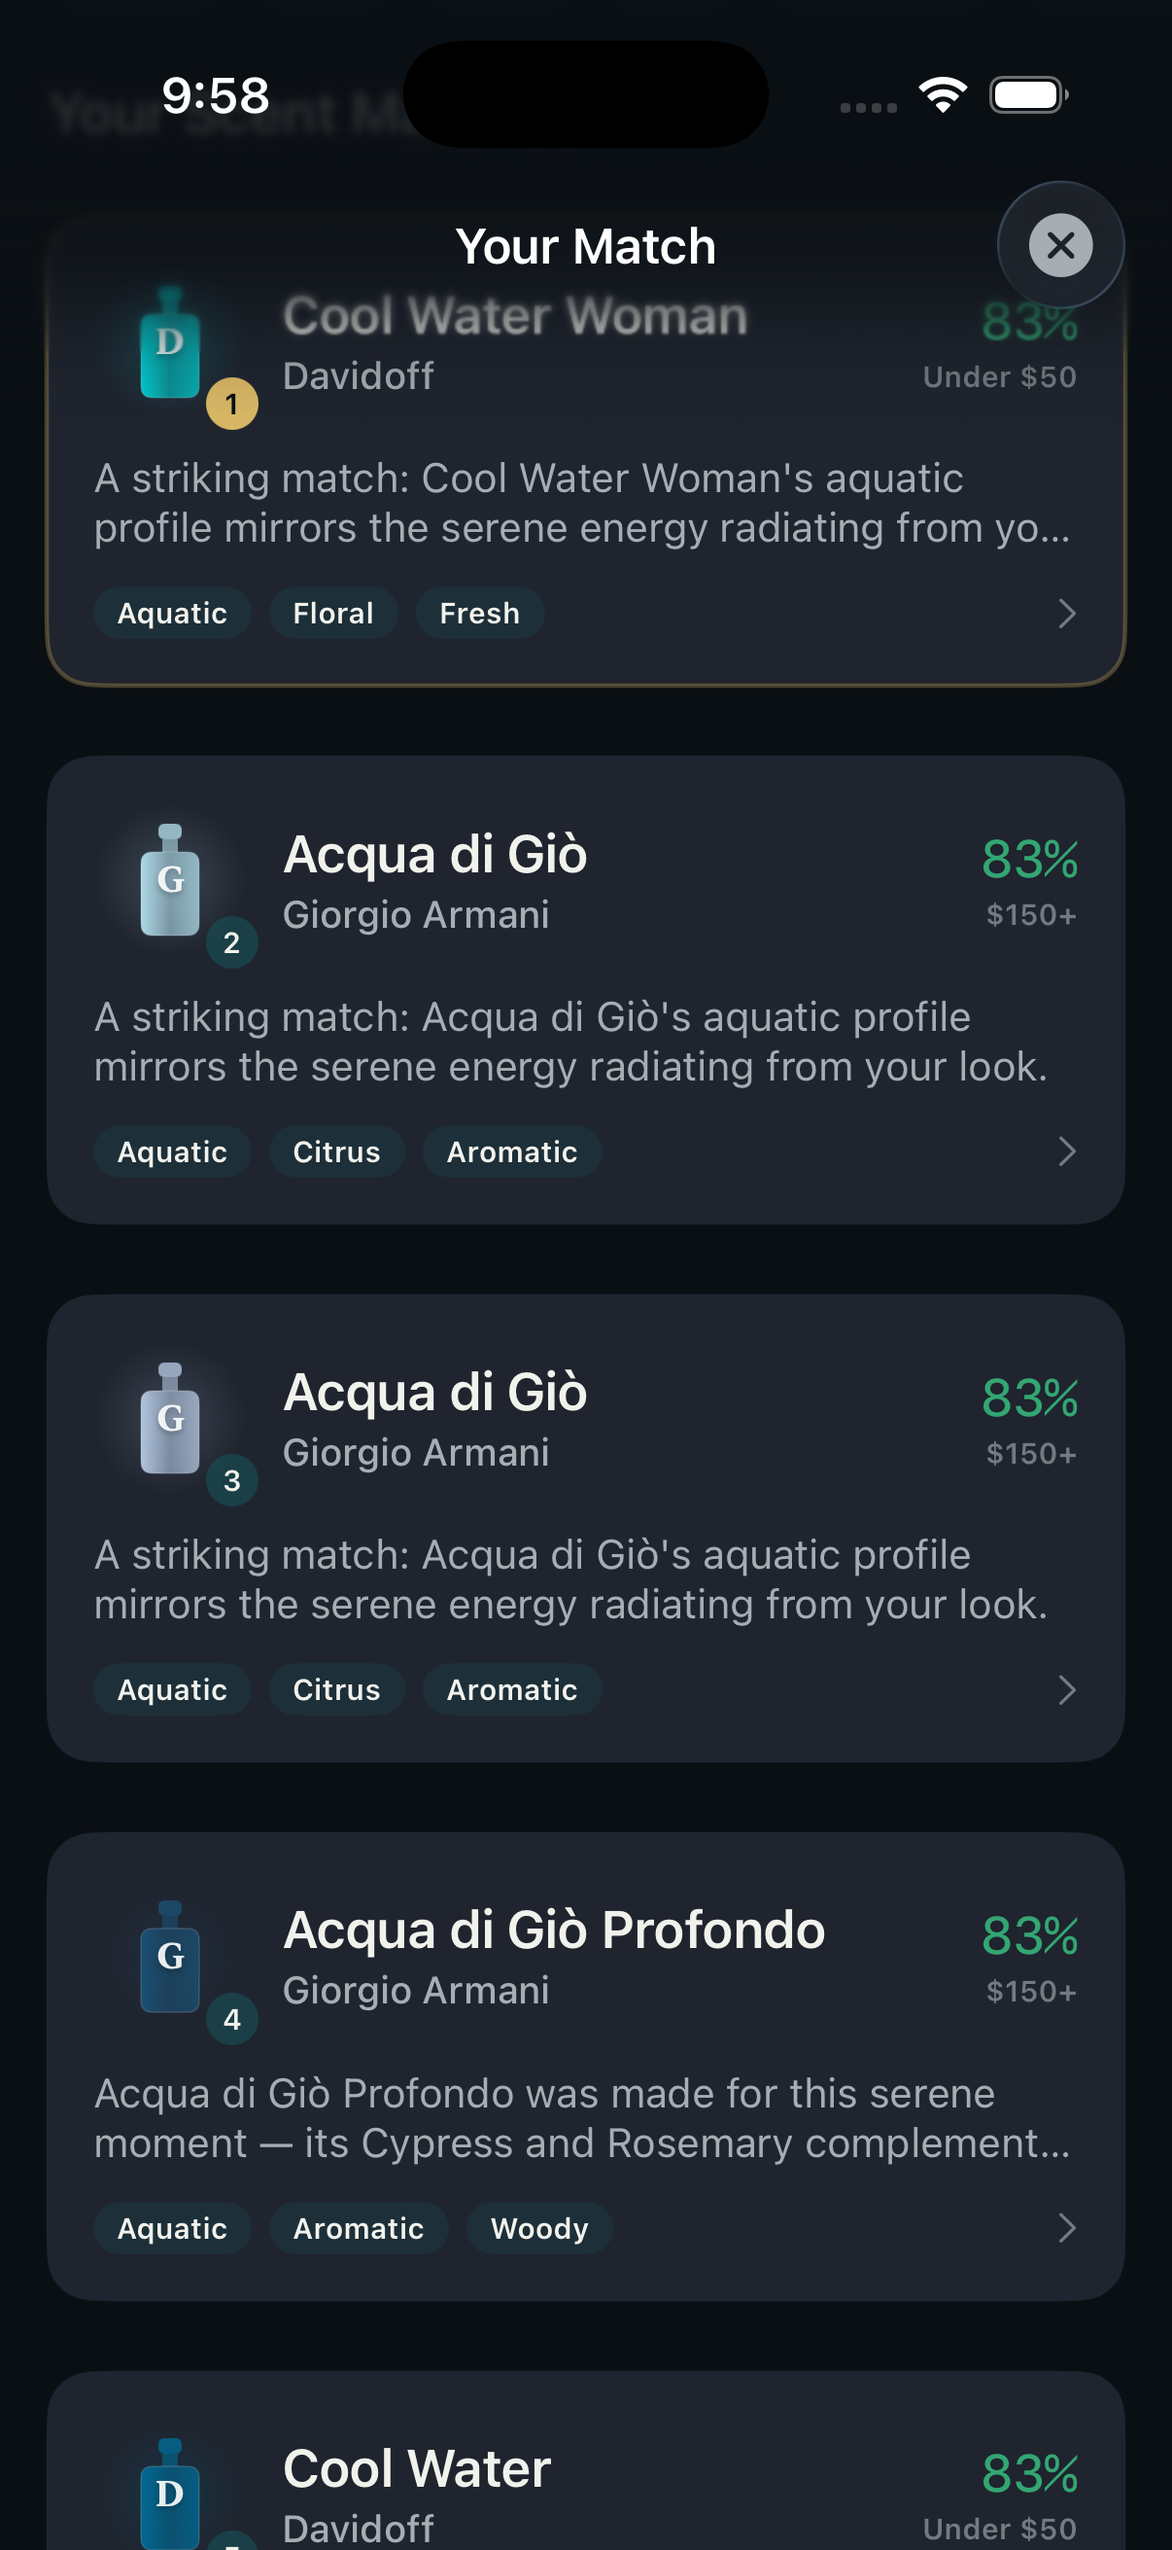
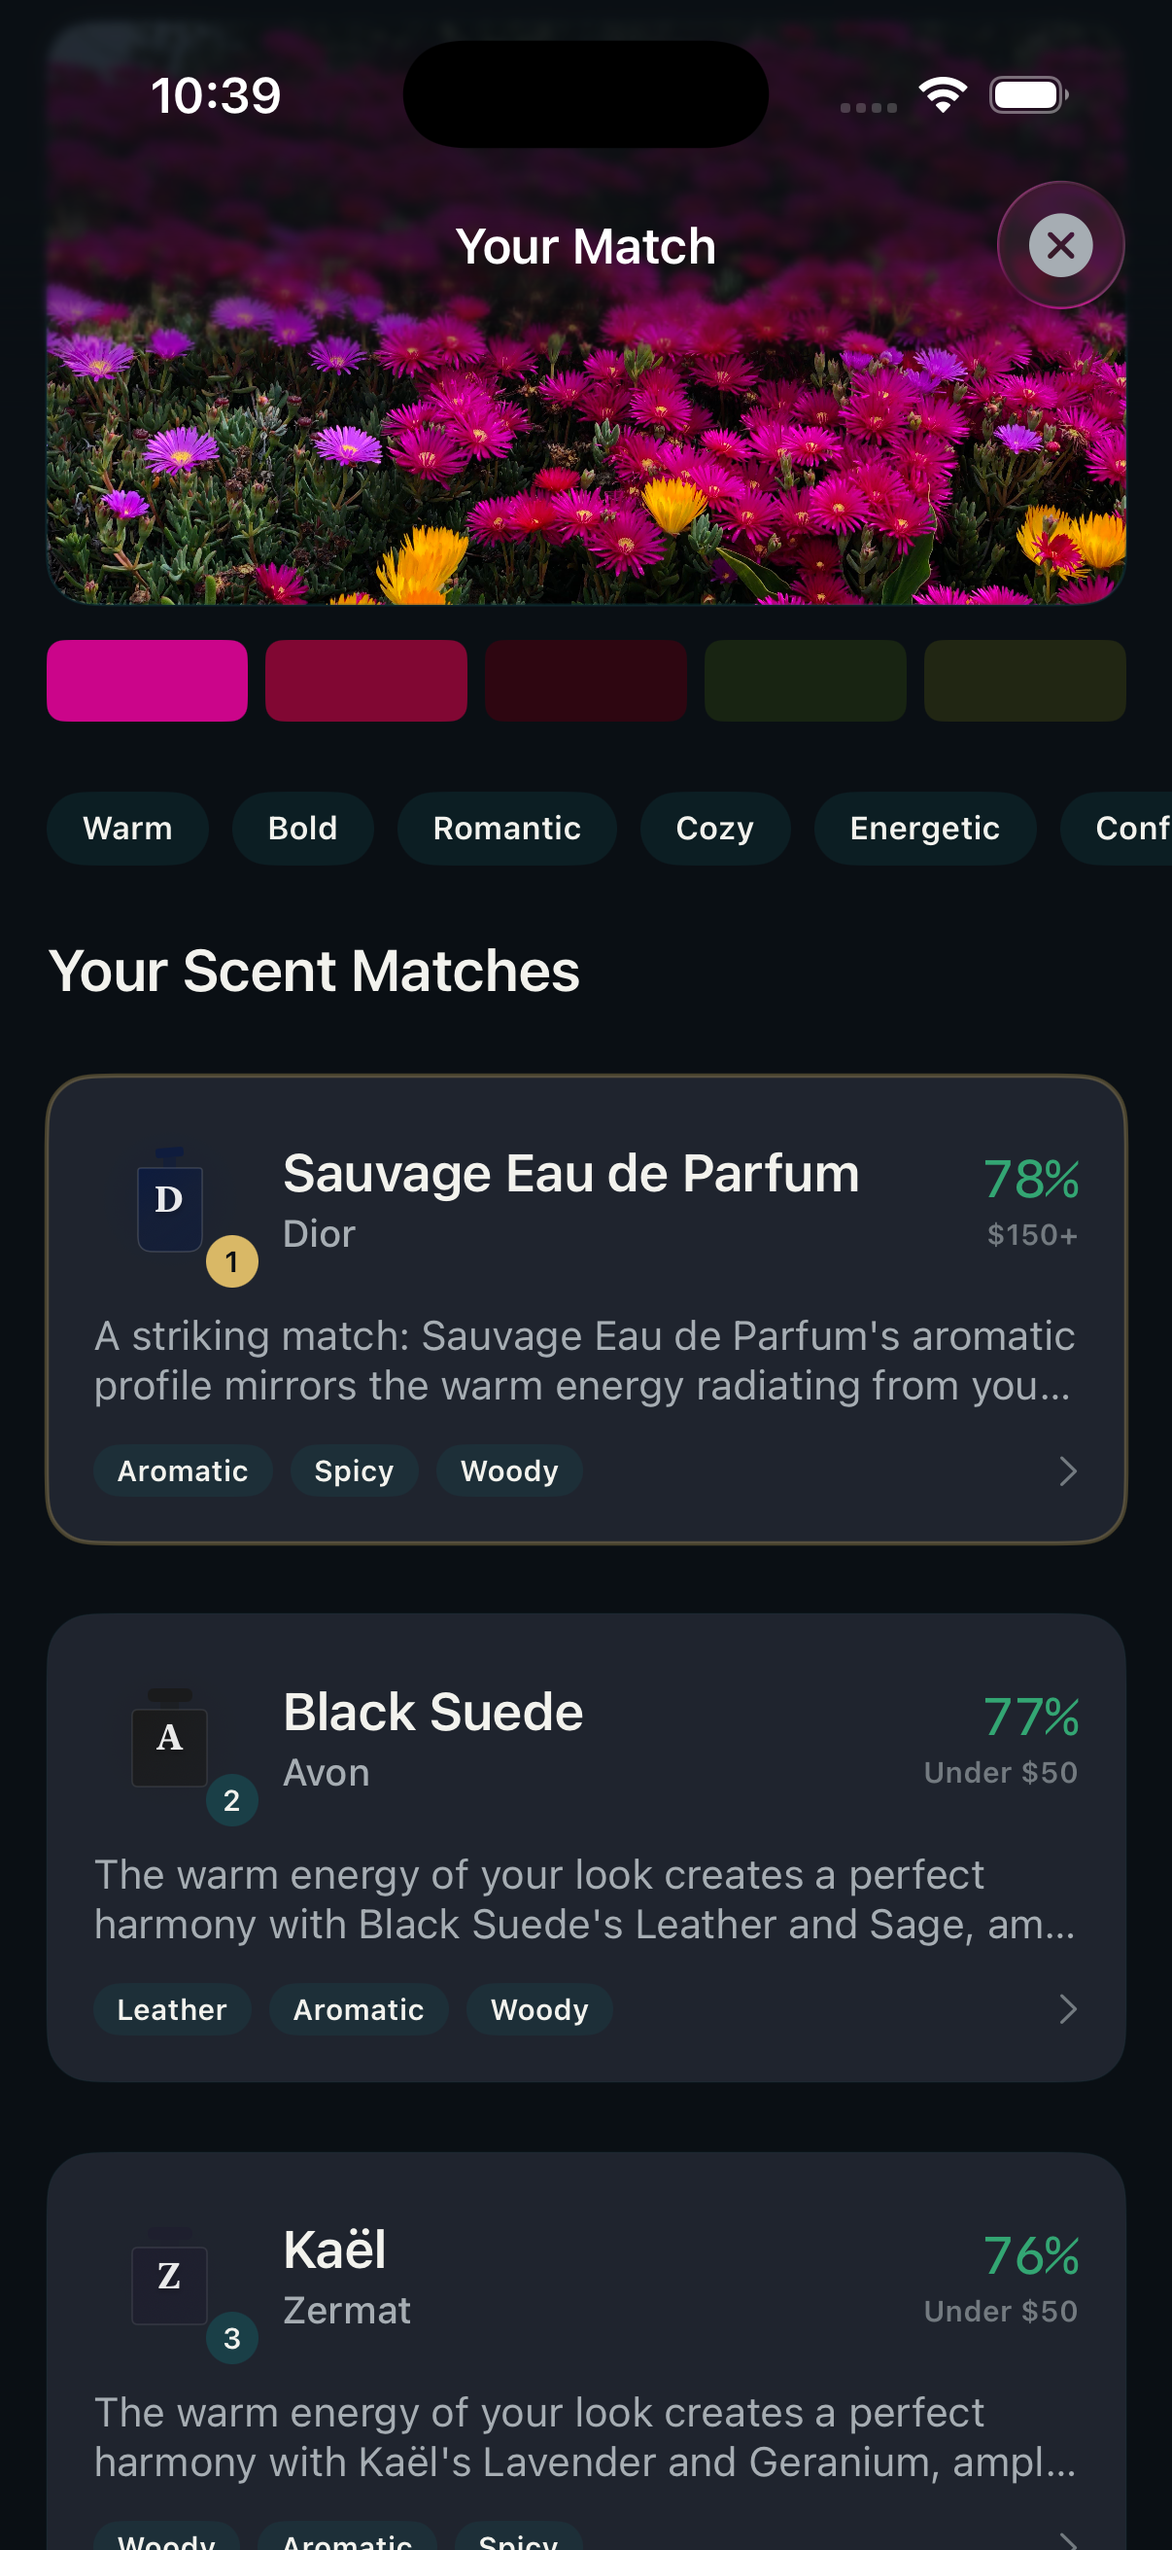
Fix duplicate matches + horizontal layout + legal pages
- Fix matching engine deduplication: now filters by fragrance name
  (not just ID) to prevent same scent appearing from multiple regions.
  Also limits max 2 fragrances per house for variety.
- Fix How It Works section: force horizontal layout, more compact
- Add privacy.html and terms.html for Apple App Store requirement
- Update results screenshot (no more duplicate Acqua di Gio)
- Add Netlify _redirects for clean /privacy and /terms URLs

diff --git a/website/terms.html b/website/terms.html
@@ -1,0 +1,86 @@
+<!DOCTYPE html>
+<html lang="en">
+<head>
+    <meta charset="UTF-8">
+    <meta name="viewport" content="width=device-width, initial-scale=1.0">
+    <title>Terms of Use - ScentMatch AI</title>
+    <style>
+        *{margin:0;padding:0;box-sizing:border-box}
+        body{font-family:-apple-system,BlinkMacSystemFont,'Segoe UI',Roboto,sans-serif;background:#080B10;color:#E0E0E0;line-height:1.8;padding:3rem 1.5rem}
+        .container{max-width:720px;margin:0 auto}
+        a{color:#33A673;text-decoration:none}
+        a:hover{text-decoration:underline}
+        h1{font-size:2rem;margin-bottom:0.5rem;color:#F0EDE8}
+        h2{font-size:1.3rem;margin:2rem 0 0.8rem;color:#F0EDE8}
+        p,li{color:#A6ADB2;margin-bottom:0.8rem}
+        ul{padding-left:1.5rem;margin-bottom:1rem}
+        .updated{font-size:0.85rem;color:#545B64;margin-bottom:2rem}
+        .back{display:inline-block;margin-bottom:2rem;font-size:0.9rem}
+        hr{border:none;border-top:1px solid rgba(255,255,255,0.06);margin:2rem 0}
+    </style>
+</head>
+<body>
+<div class="container">
+    <a href="/" class="back">&larr; Back to ScentMatch AI</a>
+    <h1>Terms of Use</h1>
+    <p class="updated">Last updated: April 1, 2026</p>
+
+    <p>These Terms of Use ("Terms") govern your use of the ScentMatch AI mobile application ("the App"). By downloading, installing, or using the App, you agree to these Terms.</p>
+
+    <h2>1. Description of Service</h2>
+    <p>ScentMatch AI is a fragrance recommendation app that uses on-device image analysis to suggest fragrances based on photos you provide. The App analyzes visual attributes such as color, mood, and style to match you with fragrances from a curated database.</p>
+
+    <h2>2. Acceptable Use</h2>
+    <p>You agree to use the App only for its intended purpose of personal fragrance discovery. You may not:</p>
+    <ul>
+        <li>Reverse engineer, decompile, or disassemble the App</li>
+        <li>Use the App for any unlawful purpose</li>
+        <li>Attempt to access data or systems not intended for your use</li>
+        <li>Redistribute, sublicense, or resell the App or its content</li>
+    </ul>
+
+    <h2>3. Subscriptions and Payments</h2>
+    <p><strong>Free tier:</strong> The App provides 5 free scent matches. No account or payment is required for free use.</p>
+    <p><strong>ScentMatch Pro:</strong> Unlimited matches and additional features are available through in-app subscriptions:</p>
+    <ul>
+        <li>Monthly: $4.99/month</li>
+        <li>Yearly: $29.99/year</li>
+        <li>Lifetime: $49.99 one-time purchase</li>
+    </ul>
+    <p>Subscriptions are billed through your Apple ID account. Payment is charged at confirmation of purchase. Subscriptions automatically renew unless canceled at least 24 hours before the end of the current billing period. You can manage and cancel subscriptions in your Apple ID account settings.</p>
+
+    <h2>4. Fragrance Recommendations</h2>
+    <p>Fragrance recommendations are generated by an AI matching algorithm and are provided for entertainment and discovery purposes only. Recommendations are based on visual analysis and do not constitute professional advice. Individual scent perception varies, and we cannot guarantee that recommended fragrances will match your personal preferences.</p>
+
+    <h2>5. Affiliate Links</h2>
+    <p>The App may contain links to third-party retailers (such as Amazon) through affiliate programs. When you make a purchase through these links, we may earn a commission. These links are provided for your convenience. We are not responsible for the products, services, or practices of third-party retailers. Your purchases from third-party retailers are governed by their respective terms and policies.</p>
+
+    <h2>6. Intellectual Property</h2>
+    <p>The App, including its matching engine, fragrance database, user interface, and all associated content, is the intellectual property of ScentMatch AI. Fragrance names, brand names, and trademarks mentioned in the App belong to their respective owners and are used for identification purposes only.</p>
+
+    <h2>7. Privacy</h2>
+    <p>Your use of the App is also governed by our <a href="/privacy">Privacy Policy</a>. All photo analysis occurs on your device. We do not collect, transmit, or store personal information on servers.</p>
+
+    <h2>8. Disclaimer of Warranties</h2>
+    <p>The App is provided "as is" and "as available" without warranties of any kind, express or implied. We do not warrant that the App will be uninterrupted, error-free, or that fragrance recommendations will meet your expectations.</p>
+
+    <h2>9. Limitation of Liability</h2>
+    <p>To the maximum extent permitted by applicable law, ScentMatch AI shall not be liable for any indirect, incidental, special, consequential, or punitive damages arising from your use of the App, including but not limited to dissatisfaction with fragrance recommendations or purchases made through affiliate links.</p>
+
+    <h2>10. Changes to Terms</h2>
+    <p>We reserve the right to modify these Terms at any time. Changes will be reflected in the "Last updated" date. Continued use of the App after changes constitutes acceptance of the updated Terms.</p>
+
+    <h2>11. Termination</h2>
+    <p>We may terminate or suspend your access to the App at any time, without prior notice, for conduct that we believe violates these Terms or is harmful to other users or us.</p>
+
+    <h2>12. Governing Law</h2>
+    <p>These Terms are governed by the laws of the United States. Any disputes shall be resolved in the courts of competent jurisdiction.</p>
+
+    <h2>13. Contact</h2>
+    <p>For questions about these Terms, contact us at <a href="mailto:support@scentmatch.app">support@scentmatch.app</a>.</p>
+
+    <hr>
+    <p style="font-size:0.85rem;color:#545B64">&copy; 2026 ScentMatch AI. All rights reserved.</p>
+</div>
+</body>
+</html>

diff --git a/website/privacy.html b/website/privacy.html
@@ -1,0 +1,68 @@
+<!DOCTYPE html>
+<html lang="en">
+<head>
+    <meta charset="UTF-8">
+    <meta name="viewport" content="width=device-width, initial-scale=1.0">
+    <title>Privacy Policy - ScentMatch AI</title>
+    <style>
+        *{margin:0;padding:0;box-sizing:border-box}
+        body{font-family:-apple-system,BlinkMacSystemFont,'Segoe UI',Roboto,sans-serif;background:#080B10;color:#E0E0E0;line-height:1.8;padding:3rem 1.5rem}
+        .container{max-width:720px;margin:0 auto}
+        a{color:#33A673;text-decoration:none}
+        a:hover{text-decoration:underline}
+        h1{font-size:2rem;margin-bottom:0.5rem;color:#F0EDE8}
+        h2{font-size:1.3rem;margin:2rem 0 0.8rem;color:#F0EDE8}
+        p,li{color:#A6ADB2;margin-bottom:0.8rem}
+        ul{padding-left:1.5rem;margin-bottom:1rem}
+        .updated{font-size:0.85rem;color:#545B64;margin-bottom:2rem}
+        .back{display:inline-block;margin-bottom:2rem;font-size:0.9rem}
+        hr{border:none;border-top:1px solid rgba(255,255,255,0.06);margin:2rem 0}
+    </style>
+</head>
+<body>
+<div class="container">
+    <a href="/" class="back">&larr; Back to ScentMatch AI</a>
+    <h1>Privacy Policy</h1>
+    <p class="updated">Last updated: April 1, 2026</p>
+
+    <p>ScentMatch AI ("we", "our", "the app") is committed to protecting your privacy. This Privacy Policy explains how we handle information when you use the ScentMatch AI mobile application.</p>
+
+    <h2>Information We Collect</h2>
+    <p><strong>Photos you scan:</strong> When you scan a photo, it is analyzed entirely on your device using Apple's Vision framework. Photos are not uploaded to any server. Compressed thumbnail images are stored locally on your device in SwiftData for your match history.</p>
+    <p><strong>Match history:</strong> Your scan results, vibe scores, and fragrance recommendations are stored locally on your device. This data never leaves your device unless you explicitly export it.</p>
+    <p><strong>Analytics events:</strong> We log basic usage events (scans completed, recommendations tapped, affiliate links tapped) locally on your device in SwiftData. These are not transmitted to any server. You can export or delete this data at any time from Settings.</p>
+    <p><strong>Subscription data:</strong> If you subscribe to ScentMatch Pro, your subscription is managed entirely by Apple through the App Store. We do not collect or store any payment information.</p>
+
+    <h2>Information We Do NOT Collect</h2>
+    <ul>
+        <li>We do not collect personal information (name, email, phone number)</li>
+        <li>We do not upload your photos to any server</li>
+        <li>We do not use tracking pixels, advertising SDKs, or analytics services</li>
+        <li>We do not share any data with third parties</li>
+        <li>We do not use cookies (the app has no web component)</li>
+        <li>We do not collect device identifiers for advertising purposes</li>
+    </ul>
+
+    <h2>On-Device Processing</h2>
+    <p>All image analysis, fragrance matching, and recommendation generation happens entirely on your device. The Vision framework color extraction, mood analysis, and matching engine all run locally. The fragrance database of 510+ scents is bundled with the app. No internet connection is required for core functionality.</p>
+
+    <h2>Affiliate Links</h2>
+    <p>When you tap "Shop on Amazon" for a fragrance, you are redirected to Amazon.com (or your regional Amazon store) through an Amazon Associates affiliate link. Amazon's own privacy policy governs your interaction with their site. We earn a commission on qualifying purchases but do not receive any personal information about your Amazon activity.</p>
+
+    <h2>Data Storage and Deletion</h2>
+    <p>All app data is stored locally on your device using Apple's SwiftData framework. You can delete all match history from Settings at any time. Uninstalling the app removes all stored data.</p>
+
+    <h2>Children's Privacy</h2>
+    <p>ScentMatch AI is not directed at children under 13. We do not knowingly collect any information from children.</p>
+
+    <h2>Changes to This Policy</h2>
+    <p>We may update this Privacy Policy from time to time. Changes will be reflected in the "Last updated" date above. Continued use of the app constitutes acceptance of the updated policy.</p>
+
+    <h2>Contact</h2>
+    <p>If you have questions about this Privacy Policy, contact us at <a href="mailto:support@scentmatch.app">support@scentmatch.app</a>.</p>
+
+    <hr>
+    <p style="font-size:0.85rem;color:#545B64">&copy; 2026 ScentMatch AI. All rights reserved.</p>
+</div>
+</body>
+</html>

diff --git a/ScentMatch/Engine/MatchingEngine.swift b/ScentMatch/Engine/MatchingEngine.swift
@@ -255,6 +255,8 @@ final class MatchingEngine {
         guard candidates.count > targetCount else { return candidates }
 
         var result = [(Fragrance, Double)]()
+        var usedNames = Set<String>()      // Deduplicate by name (same scent in multiple regions)
+        var usedHouses = [String: Int]()    // Limit per house
         var usedAccords = Set<AccordFamily>()
         var usedTiers = Set<PriceTier>()
         var usedRegions = Set<FragranceRegion>()
@@ -262,6 +264,8 @@ final class MatchingEngine {
         // Always include #1
         if let first = candidates.first {
             result.append(first)
+            usedNames.insert(first.0.name.lowercased())
+            usedHouses[first.0.house, default: 0] += 1
             first.0.accords.forEach { usedAccords.insert($0) }
             usedTiers.insert(first.0.priceTier)
             usedRegions.insert(first.0.region)
@@ -269,6 +273,14 @@ final class MatchingEngine {
 
         // Fill remaining with diversity preference
         for candidate in candidates.dropFirst() where result.count < targetCount {
+            let nameLower = candidate.0.name.lowercased()
+
+            // Skip if same fragrance name already included (cross-region duplicates)
+            if usedNames.contains(nameLower) { continue }
+
+            // Limit max 2 fragrances per house
+            if (usedHouses[candidate.0.house] ?? 0) >= 2 { continue }
+
             let hasNewAccord = !candidate.0.accords.allSatisfy { usedAccords.contains($0) }
             let hasNewTier = !usedTiers.contains(candidate.0.priceTier)
             let hasNewRegion = !usedRegions.contains(candidate.0.region)
@@ -279,16 +291,20 @@ final class MatchingEngine {
             let scoreThreshold = (result.first?.1 ?? 0) * 0.7
             if candidate.1 >= scoreThreshold || diversityBonus >= 2 {
                 result.append(candidate)
+                usedNames.insert(nameLower)
+                usedHouses[candidate.0.house, default: 0] += 1
                 candidate.0.accords.forEach { usedAccords.insert($0) }
                 usedTiers.insert(candidate.0.priceTier)
                 usedRegions.insert(candidate.0.region)
             }
         }
 
-        // Fill any remaining slots from top candidates
+        // Fill any remaining slots — still enforce name uniqueness
         for candidate in candidates where result.count < targetCount {
-            if !result.contains(where: { $0.0.id == candidate.0.id }) {
+            let nameLower = candidate.0.name.lowercased()
+            if !usedNames.contains(nameLower) {
                 result.append(candidate)
+                usedNames.insert(nameLower)
             }
         }
 

diff --git a/website/index.html b/website/index.html
@@ -168,21 +168,21 @@
         .b-number.gold{color:var(--gold)}
         .b-icon{font-size:2rem;margin-bottom:0.8rem;position:relative;z-index:1}
 
-        /* How it works — horizontal strip */
+        /* How it works — always horizontal strip */
         .b-how{
-            display:flex;align-items:center;gap:2rem;
-            padding:1.8rem 2.5rem;
+            display:flex;align-items:center;gap:1.5rem;
+            padding:1.2rem 2rem;
         }
-        .b-how .hw-step{flex:1;text-align:center}
+        .b-how .hw-step{flex:1;text-align:center;min-width:0}
         .hw-num{
-            width:36px;height:36px;border-radius:50%;
+            width:32px;height:32px;border-radius:50%;
             background:var(--emerald);color:var(--bg);
-            display:flex;align-items:center;justify-content:center;
-            font-weight:700;font-size:0.9rem;margin:0 auto 0.6rem;
+            display:inline-flex;align-items:center;justify-content:center;
+            font-weight:700;font-size:0.8rem;margin-right:0.5rem;vertical-align:middle;
         }
-        .hw-title{font-weight:600;font-size:0.95rem;margin-bottom:0.2rem}
-        .hw-desc{font-size:0.78rem;color:var(--text2);line-height:1.5}
-        .hw-arrow{color:var(--text3);font-size:1.5rem;flex-shrink:0}
+        .hw-title{font-weight:600;font-size:0.9rem;display:inline;vertical-align:middle}
+        .hw-desc{font-size:0.75rem;color:var(--text2);line-height:1.4;margin-top:0.2rem}
+        .hw-arrow{color:var(--text3);font-size:1.2rem;flex-shrink:0}
 
         /* Pricing strip inside bento */
         .b-pricing{display:flex;gap:1rem;padding:2rem}
@@ -245,8 +245,8 @@
             .phone-back{display:none}
             .bento{grid-template-columns:1fr 1fr}
             .b-wide,.b-triple,.b-full{grid-column:span 2}
-            .b-how{flex-direction:column;gap:1rem}
-            .hw-arrow{transform:rotate(90deg)}
+            .b-how{gap:0.8rem;padding:1rem}
+            .hw-desc{display:none}
             .b-pricing{flex-direction:column}
         }
         @media(max-width:600px){
@@ -392,8 +392,8 @@
 <!-- ═══════════ FOOTER ═══════════ -->
 <footer>
     <div>
-        <a href="https://scentmatch.app/privacy">Privacy</a>
-        <a href="https://scentmatch.app/terms">Terms</a>
+        <a href="/privacy">Privacy</a>
+        <a href="/terms">Terms</a>
         <a href="mailto:support@scentmatch.app">Support</a>
     </div>
     <p class="footer-copy">&copy; 2026 ScentMatch AI</p>
